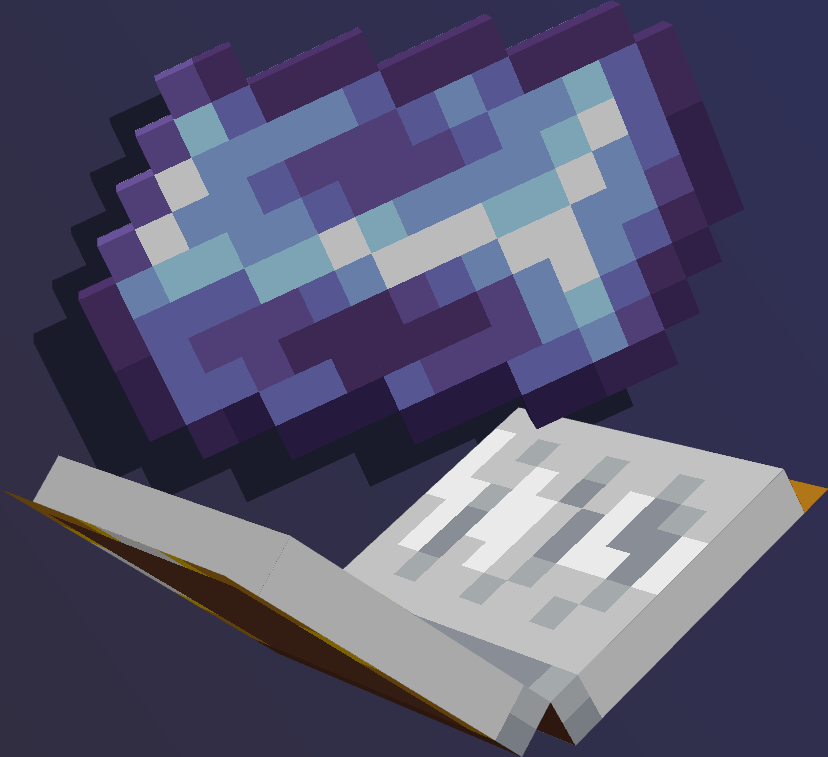
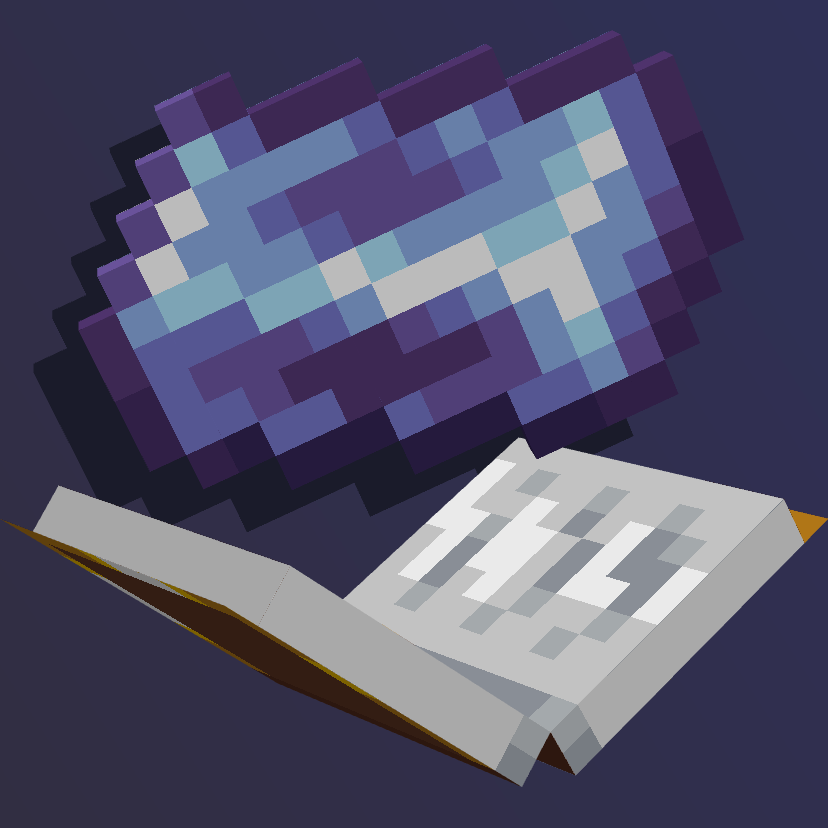
Fixed all the stinky tag garbage :3

diff --git a/src/main/java/taylorrubi/stellarite/item/Moditems.java b/src/main/java/taylorrubi/stellarite/item/Moditems.java
@@ -4,15 +4,17 @@ import net.fabricmc.fabric.api.itemgroup.v1.ItemGroupEvents;
 import net.minecraft.item.*;
 import net.minecraft.registry.Registries;
 import net.minecraft.registry.Registry;
+import net.minecraft.text.Text;
 import net.minecraft.util.Identifier;
 import taylorrubi.stellarite.Stellarite;
 import taylorrubi.stellarite.item.custom.StellariteChorusFruitItem;
+import net.minecraft.item.SmithingTemplateItem
 
 public class Moditems {
     public static final Item STELLARITE_INGOT = registerItem( "stellarite_ingot", new Item(new Item.Settings()));
     public static final Item STELLARITE_SCRAP = registerItem( "stellarite_scrap", new Item(new Item.Settings()));
     public static final Item STELLARITE_NUGGET = registerItem( "stellarite_nugget", new Item(new Item.Settings()));
-    public static final Item STELLARITE_UPGRADE = registerItem( "stellarite_upgrade", new Item(new Item.Settings()));
+    public static final Item STELLARITE_UPGRADE = registerItem( "stellarite_upgrade", new SmithingTemplateItem(Text.of());
     public static final Item IFO = registerItem( "ifo", new Item(new Item.Settings()));
     public static final Item STELLARITE_CHORUS_FRUIT = registerItem( "stellarite_chorus_fruit", new StellariteChorusFruitItem(new Item.Settings().food(ModFoodComponents.STELLARITE_CHORUS_FRUIT)));
 
